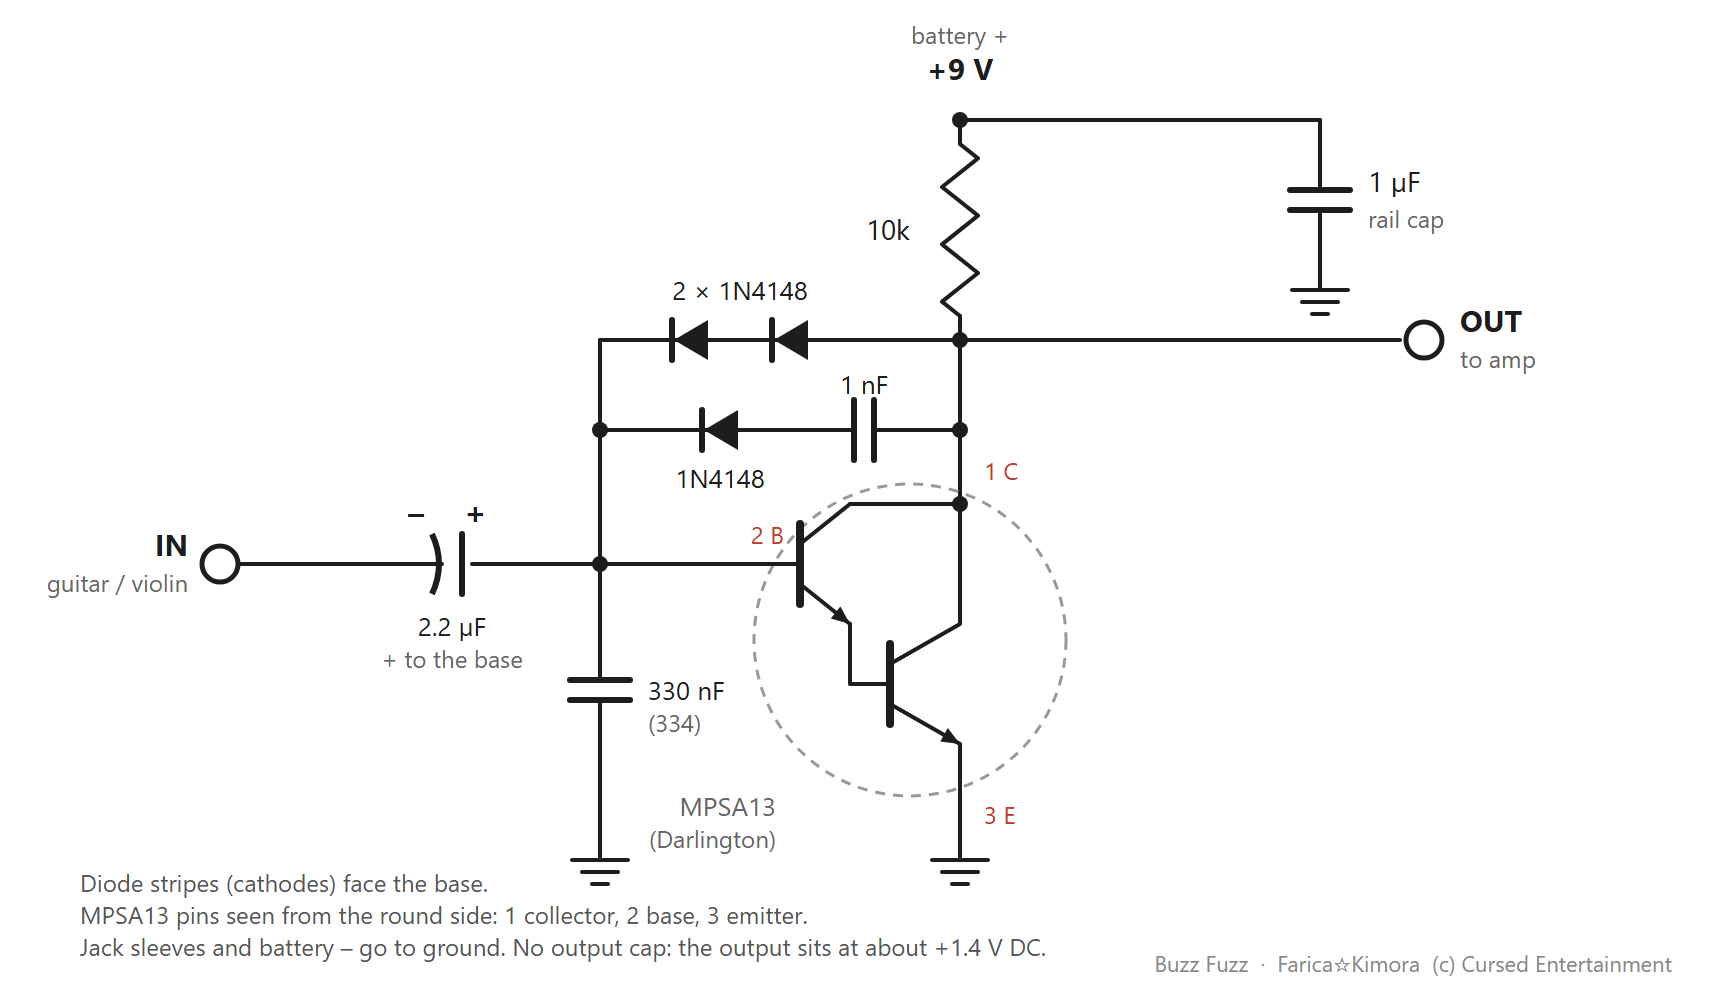
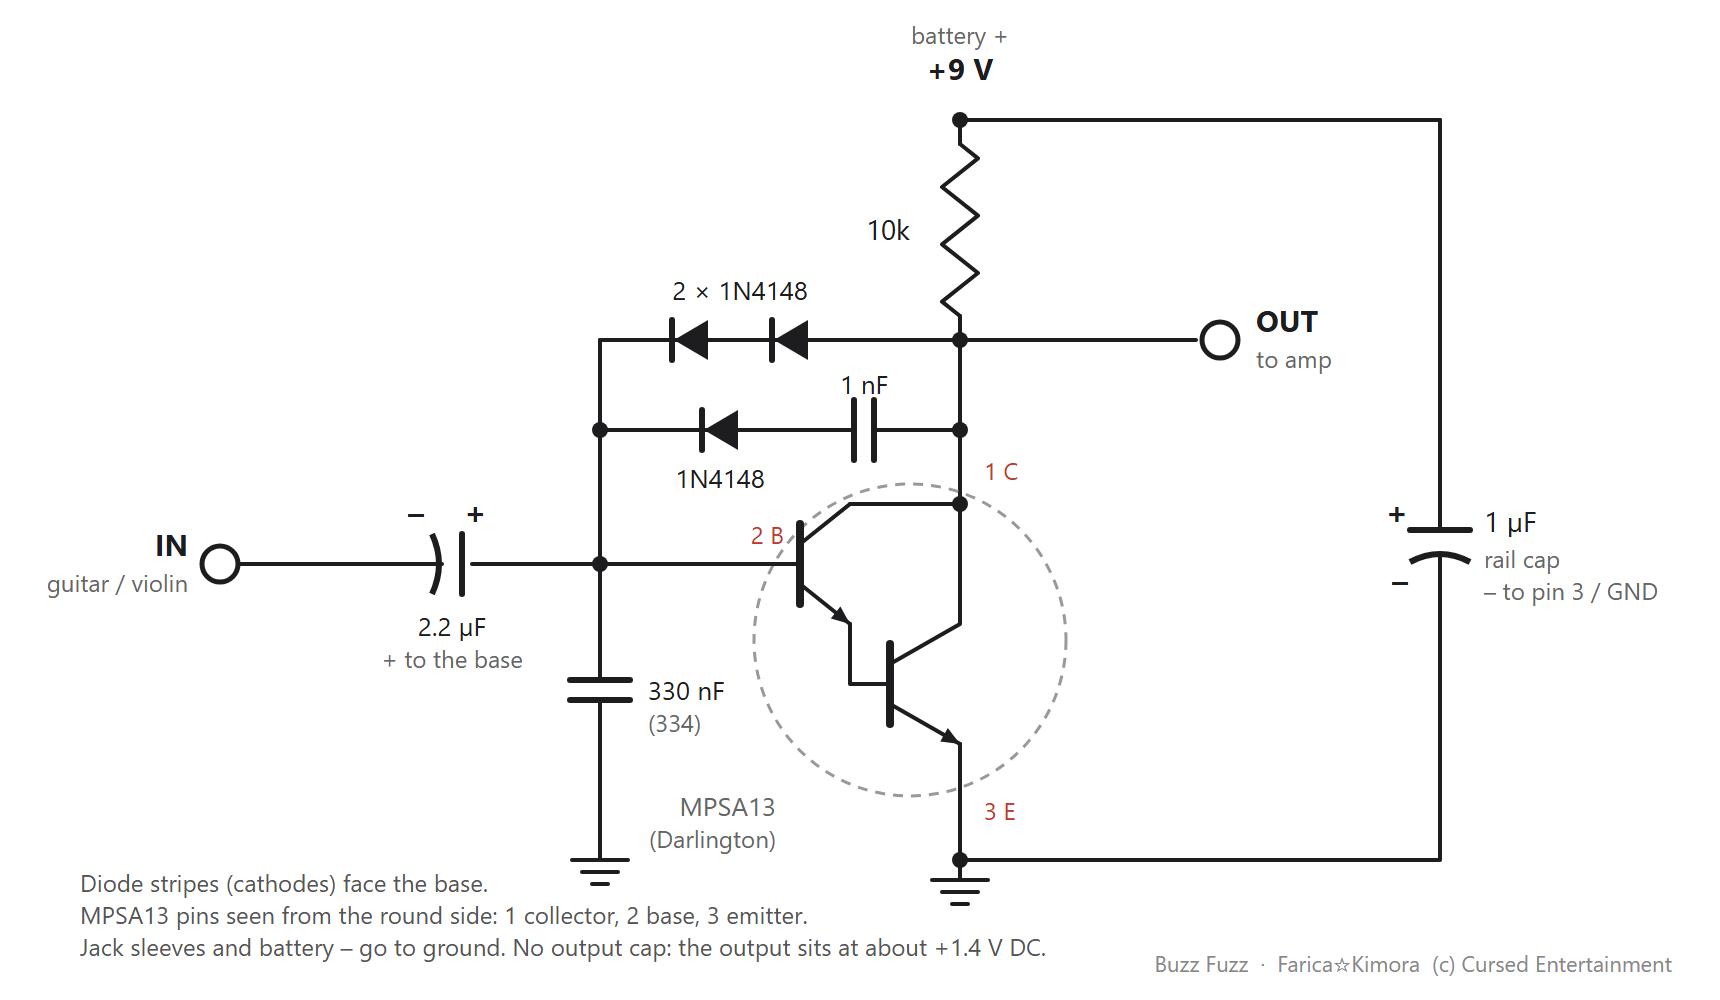
Schematic: rail cap minus to pin 3 / ground

diff --git a/README.md b/README.md
@@ -17,9 +17,9 @@ See [TODO.md](TODO.md).
 
 ```
                           +9V ──┬────────┐
-                                │      1µF   (rail cap)
-                               10k       │
-                                │       GND
+                                │        ═  + 1µF  rail cap (electrolytic)
+                               10k       │  – to pin 3 / GND
+                                │        ┴
   OUT jack ─────────────────────┤ collector (pin 1)
                                 │
                   ┌──|◄──|◄─────┤   2× 1N4148 in series, stripes toward the base
@@ -29,7 +29,7 @@ See [TODO.md](TODO.md).
           2.2µF   │                                   pins from the round side
                 330nF (blue, 334)                    1 C · 2 B · 3 E
                   │
-                 GND ───────────── emitter (pin 3)
+                 GND ───────────── emitter (pin 3), rail cap –
 ```
 (|◄ = a diode, the bar is the stripe: current flows from the collector into the base)
 
